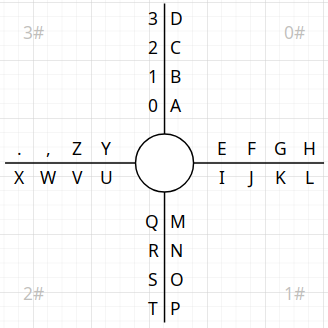
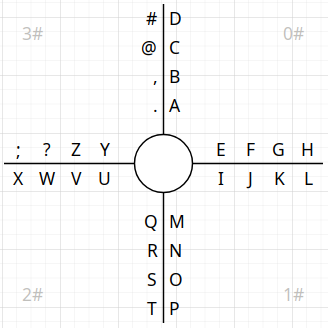
Docs: 更新《十字型输入的交互设计》

diff --git a/docs/design/cross-mode.md b/docs/design/cross-mode.md
@@ -231,7 +231,7 @@ https://github.com/user-attachments/assets/3b5f2503-4852-4678-acd8-6f599eb523cd
 
 ![](./cross-mode/50-lantin-blind-hit.png)
 
-> 注：对于盲打的输入支持，可以详见章节[《盲打输入模式》](#盲打输入模式)。
+> 注：对于盲打的输入支持，请详见章节[《盲打输入模式》](#盲打输入模式)。
 
 从以上分析不难看出，在十字形上的滑行轨迹更便于实现轨迹识别，其仅涉及垂直和水平两个方向，而在
 X 形上则需要做 45° 旋转处理。更重要的是，围绕十字形的轴线画椭圆仅需较小的**分区跨度**即可，
@@ -298,15 +298,13 @@ m |20| m, ma,mai,man,mao,mang, me,mei,men,meng, mi,mie,min,miu,mian,miao,ming, m
 **开个小差**：既然有「面板投屏」了，那么就可以内置一些滑屏类小游戏，比如，贪吃蛇、吃豆人等，
 作为放松娱乐之用 ;-)。
 
-### 其他
+### 键盘切换与输入补全选择
 
-- 可在四个字符分区各放置一到两个功能按键
 - 如何自然地切换到数字、算术等输入键盘？
   - 在轨迹原点画圈，类似于拨动旋钮，根据画圈的数量来循环切换不同的输入
     - 模拟阻尼滚轮拨动
+    - 顺时针拨动为向前切换，逆时针拨动为向后切换
   - 符号、表情等，仅放置常用的，更多的选择，需点击切换按键再做选择
-- 拼音候选字、表情、符号等输入字符过多，依然采用按键输入模式，不考虑滑行输入，
-  但可以考虑在滑行输入的初始布局的空位中放置常用的表情和符号
 - 英文补全内容（输入补全）、拼音高频字（候选字）均以气泡形式展示在键盘上方并自带序号
   - 如何在输入过程中，通过滑屏手势平滑地根据序号选中输入补全或候选字？
   - 也可以不选择，所以，不能干扰正常的字符输入过程，避免在输入间隙强制插入「输入选择」过程
@@ -314,5 +312,11 @@ m |20| m, ma,mai,man,mao,mang, me,mei,men,meng, mi,mie,min,miu,mian,miao,ming, m
     此时，通过在原点上画圈的方式对输入补全做选择，画圈的数量决定选中第几个补全，
     且一旦开始画圈，字符布局便恢复初始布局，可直接选中补全并开始新的输入
     - 第一次滑行可用于确定当前已输入的可选后继字符，以便于基于此确定待补全的内容
+
+### 其他
+
+- 可在四个字符分区各放置一到两个功能按键
+- 拼音候选字、表情、符号等输入字符过多，依然采用按键输入模式，不考虑滑行输入，
+  但可以考虑在滑行输入的初始布局的空位中放置常用的表情和符号
 - 可否支持通过滑屏手势，对输入列表中的输入做选择和删除？
   - 在选中输入后释放手指，则自动进入输入修改或拼音候选字选择模式
